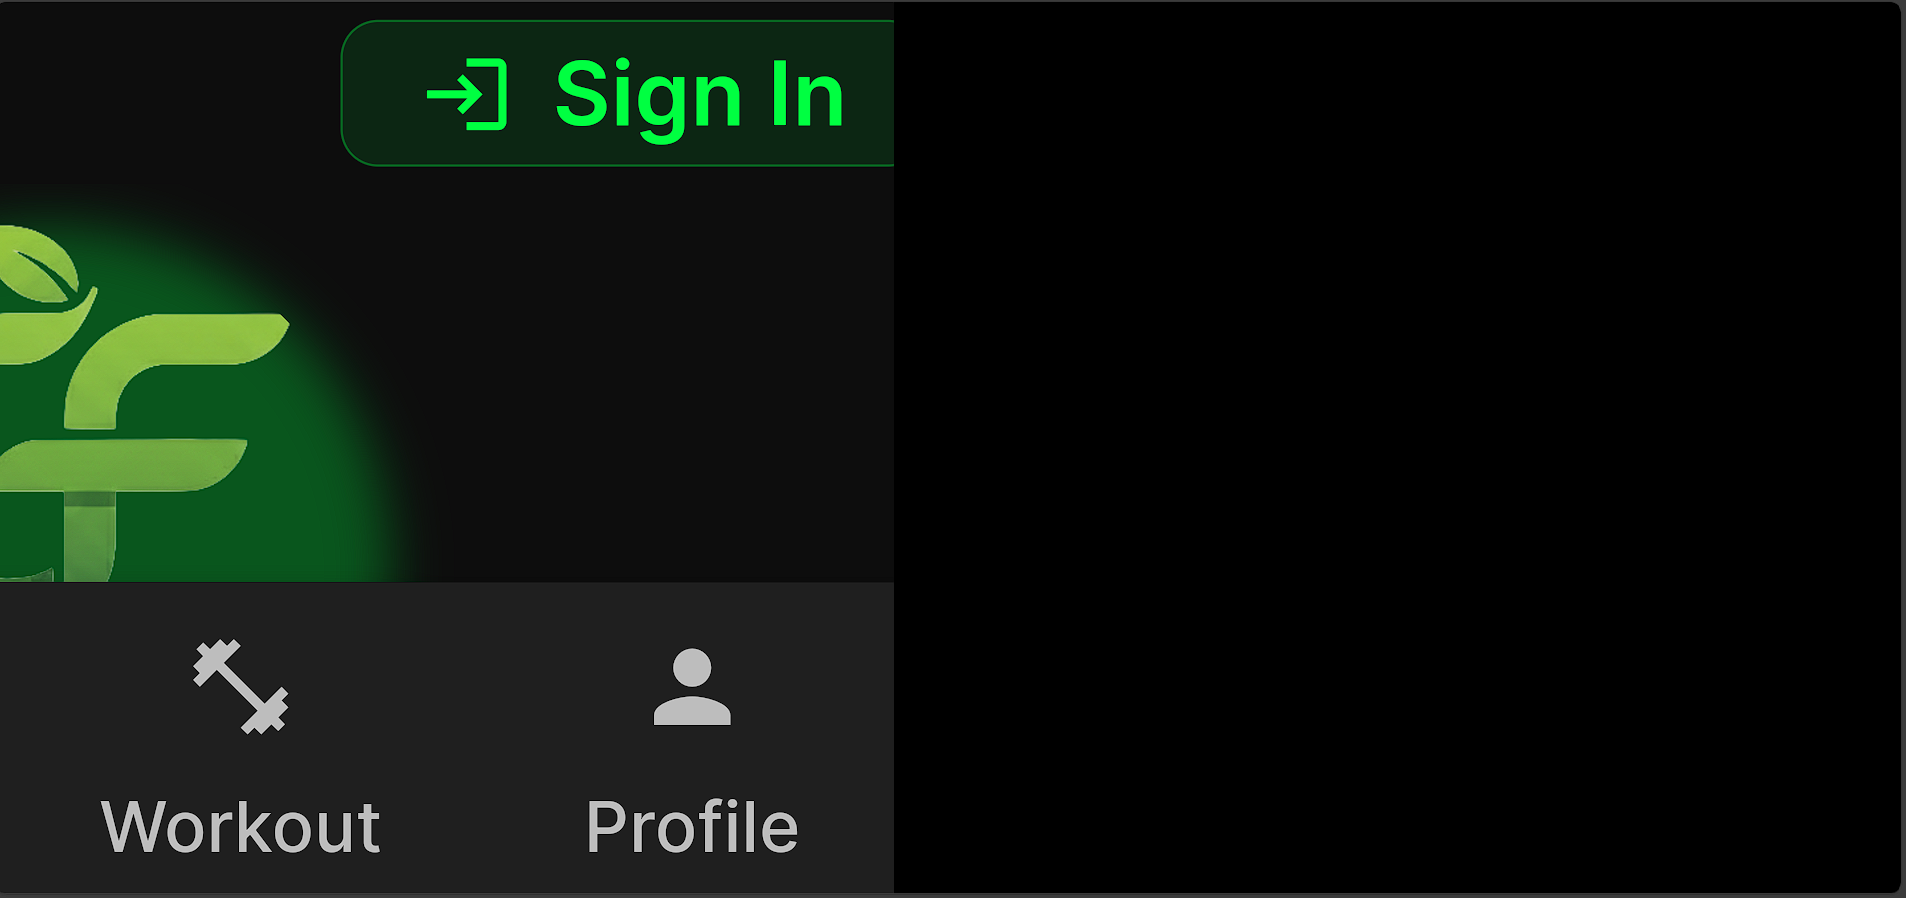
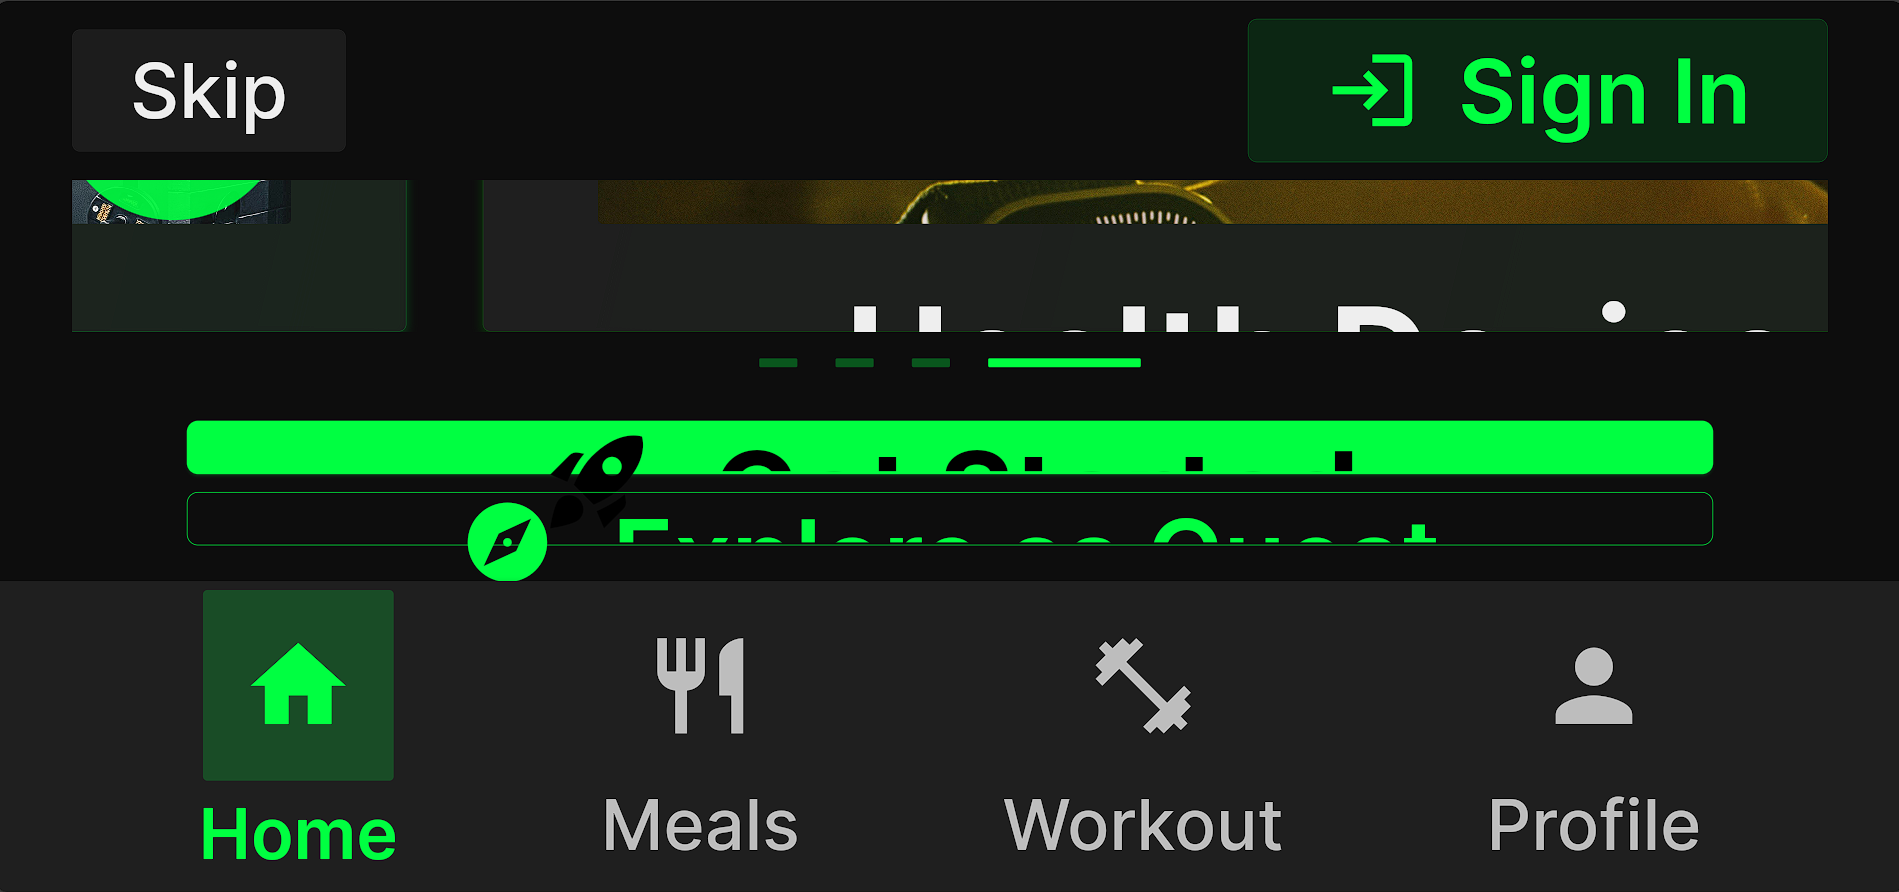
Force mobile phone size on web
The app was rendering at desktop size with small icons and text.

Fix Applied:
- Constrain web view to max 430px width (iPhone 14 Pro Max size)
- Center the app on larger screens with dark background
- Add box shadow for phone-like appearance on desktop
- This makes the web app look and feel like a mobile app

Result:
- Icons and text will be properly sized for mobile
- Bottom navigation will be appropriately sized
- All UI elements scale correctly for phone dimensions

🤖 Generated with [Claude Code](https://claude.com/claude-code)

diff --git a/build/web/flutter_service_worker.js b/build/web/flutter_service_worker.js
@@ -31,14 +31,14 @@ const RESOURCES = {"assets/AssetManifest.bin": "22a9ef4167edf002318c39098e59ddc2
 "canvaskit/skwasm.wasm": "39dd80367a4e71582d234948adc521c0",
 "favicon.png": "5dcef449791fa27946b3d35ad8803796",
 "flutter.js": "83d881c1dbb6d6bcd6b42e274605b69c",
-"flutter_bootstrap.js": "a8d03c96f233d86f0c659904d5db8340",
+"flutter_bootstrap.js": "3e951d0d3fc780a0154522d261e85b2d",
 "flutter_plugins.js": "6684cb33494c8738c33f1132c62f52dc",
 "icons/Icon-192.png": "ac9a721a12bbc803b44f645561ecb1e1",
 "icons/Icon-512.png": "96e752610906ba2a93c65f8abe1645f1",
 "icons/Icon-maskable-192.png": "c457ef57daa1d16f64b27b786ec2ea3c",
 "icons/Icon-maskable-512.png": "301a7604d45b3e739efc881eb04896ea",
-"index.html": "ed5a6b6278b37204ba070059e3d96e9d",
-"/": "ed5a6b6278b37204ba070059e3d96e9d",
+"index.html": "2073bc3b45cf3a2b9aa693b95d1c4ee8",
+"/": "2073bc3b45cf3a2b9aa693b95d1c4ee8",
 "main.dart.js": "f611827860bb84a018c685ff1f05b912",
 "manifest.json": "1ffae4b362acca395e6c45278405d5e6",
 "version.json": "2ea0ce669cab5b8d1c9cf9e107906ea7"};

diff --git a/build/web/index.html b/build/web/index.html
@@ -90,11 +90,18 @@
         height: 100% !important;
       }
 
-      /* Mobile-first approach - no desktop constraints for now */
-      @media (min-width: 768px) {
-        html, body {
-          max-width: 100vw;
-          overflow-x: hidden;
+      /* Force mobile phone width on web for proper sizing */
+      @media (min-width: 480px) {
+        html {
+          display: flex;
+          justify-content: center;
+          background: #1a1a1a;
+        }
+
+        body {
+          max-width: 430px;
+          margin: 0 auto;
+          box-shadow: 0 0 50px rgba(0,0,0,0.5);
         }
       }
     </style>

diff --git a/lib/main.dart b/lib/main.dart
@@ -95,7 +95,7 @@ class MyApp extends StatelessWidget {
       child: Consumer<ThemeProvider>(
         builder: (context, themeProvider, child) {
           return Sizer(
-            builder: (context, orientation, screenType) {
+            builder: (context, orientation, deviceType) {
               return MaterialApp(
                 title: 'Greenofig - Health & Wellness',
                 theme: AppTheme.lightTheme,

diff --git a/build/web/flutter_bootstrap.js b/build/web/flutter_bootstrap.js
@@ -39,6 +39,6 @@ _flutter.buildConfig = {"engineRevision":"39d6d6e699e51b2874210e14cddf1a22fb9524
 
 _flutter.loader.load({
   serviceWorkerSettings: {
-    serviceWorkerVersion: "1465268592"
+    serviceWorkerVersion: "3289675957"
   }
 });
